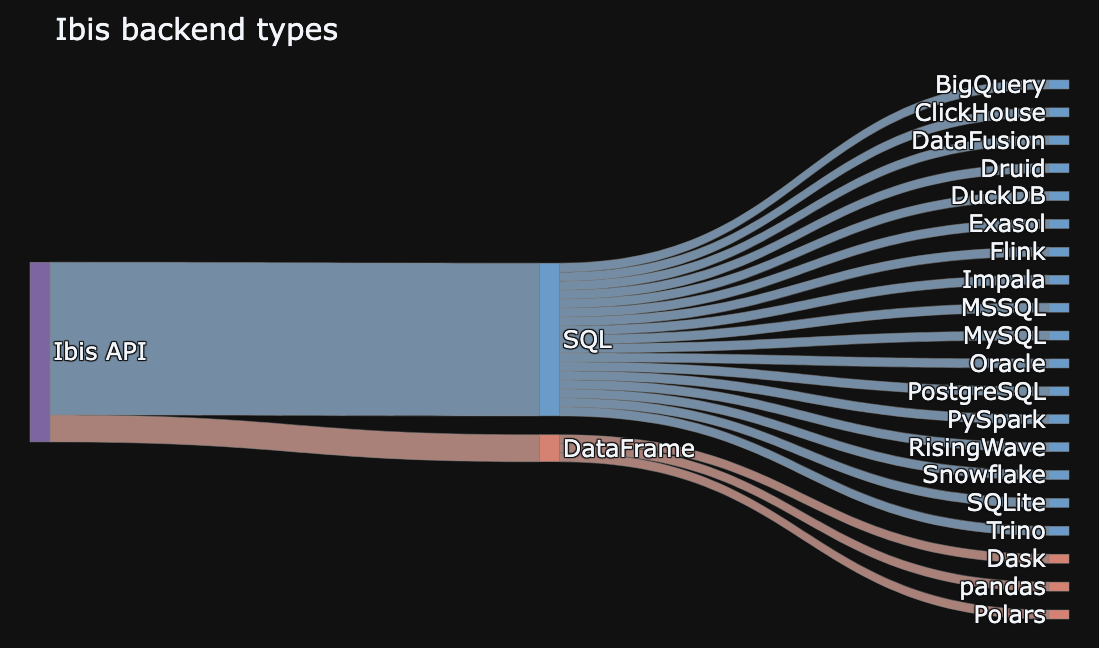
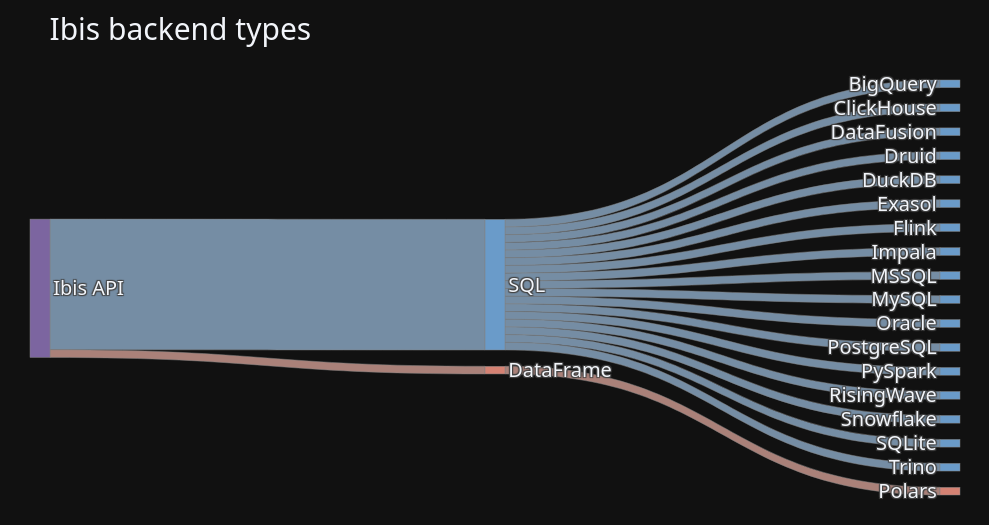
chore(deps): remove the `pandas` extra (#10132)

Changed region(s): [[0.0, 0.0914, 0.9707, 0.9752], [0.0303, 0.0305, 0.3337, 0.0914]]

diff --git a/ibis/formats/pandas.py b/ibis/formats/pandas.py
@@ -91,7 +91,7 @@ class PandasData(DataMapper):
         for column_name in df.dtypes.keys():
             if not isinstance(column_name, str):
                 raise TypeError(
-                    "Column names must be strings to use the pandas backend"
+                    "Column names must be strings to ingest a pandas DataFrame"
                 )
 
             pandas_column = df[column_name]

diff --git a/ibis/backends/tests/test_temporal.py b/ibis/backends/tests/test_temporal.py
@@ -1323,7 +1323,6 @@ def test_day_of_week_column_group_by(
         .rename(columns={"timestamp_col": "day_of_week_result"})
     )
 
-    # FIXME(#1536): Pandas backend should use query.schema().apply_to
     backend.assert_frame_equal(result, expected, check_dtype=False)
 
 

diff --git a/README.md b/README.md
@@ -166,7 +166,7 @@ Ibis broadly supports two types of backend:
 1. SQL-generating backends
 2. DataFrame-generating backends
 
-![Ibis backend types](https://raw.githubusercontent.com/ibis-project/ibis/main/docs/images/backends.png)
+![Ibis backend types](./docs/images/backends.png)
 
 ## Portability
 
